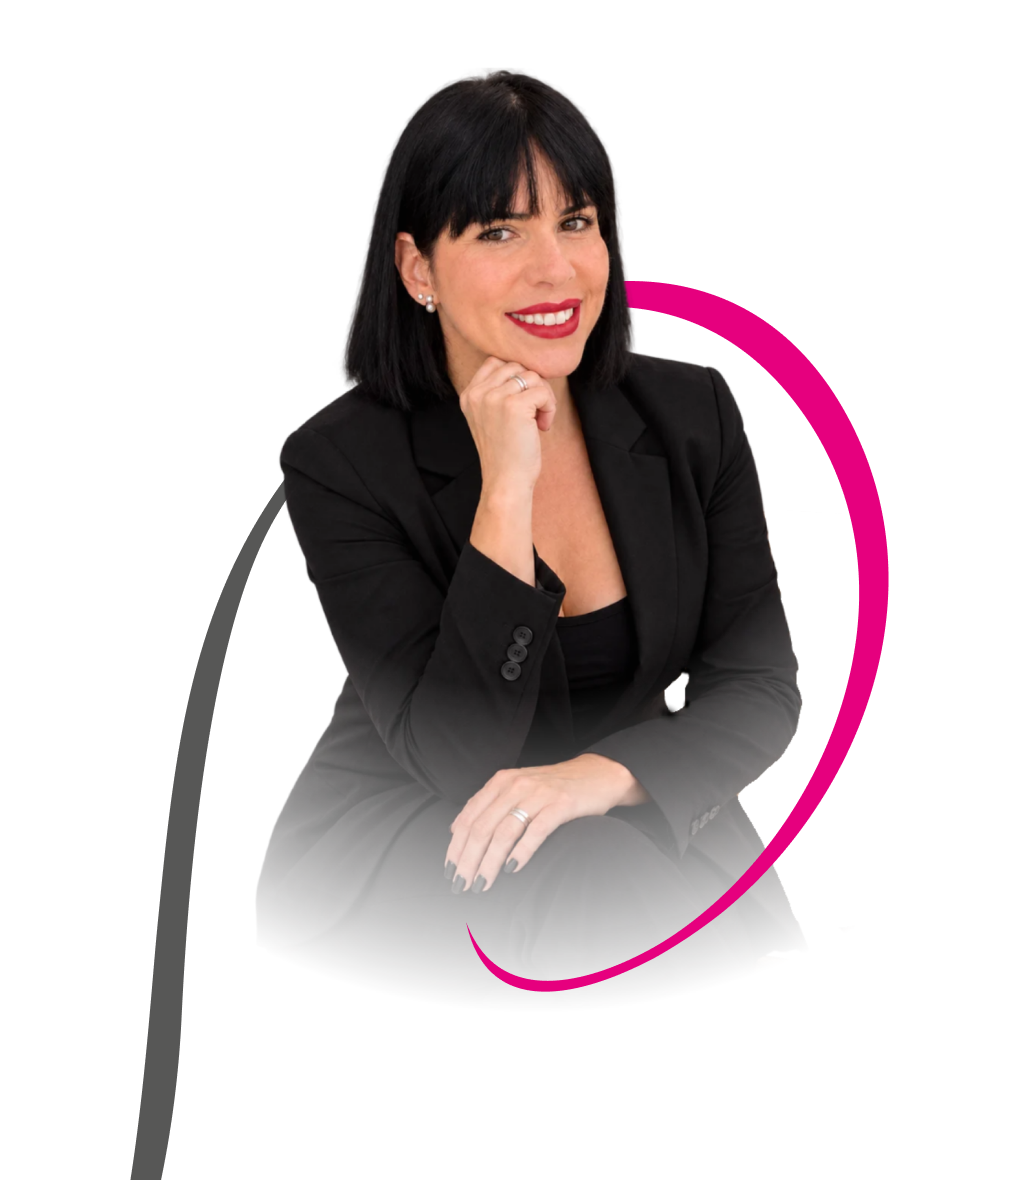
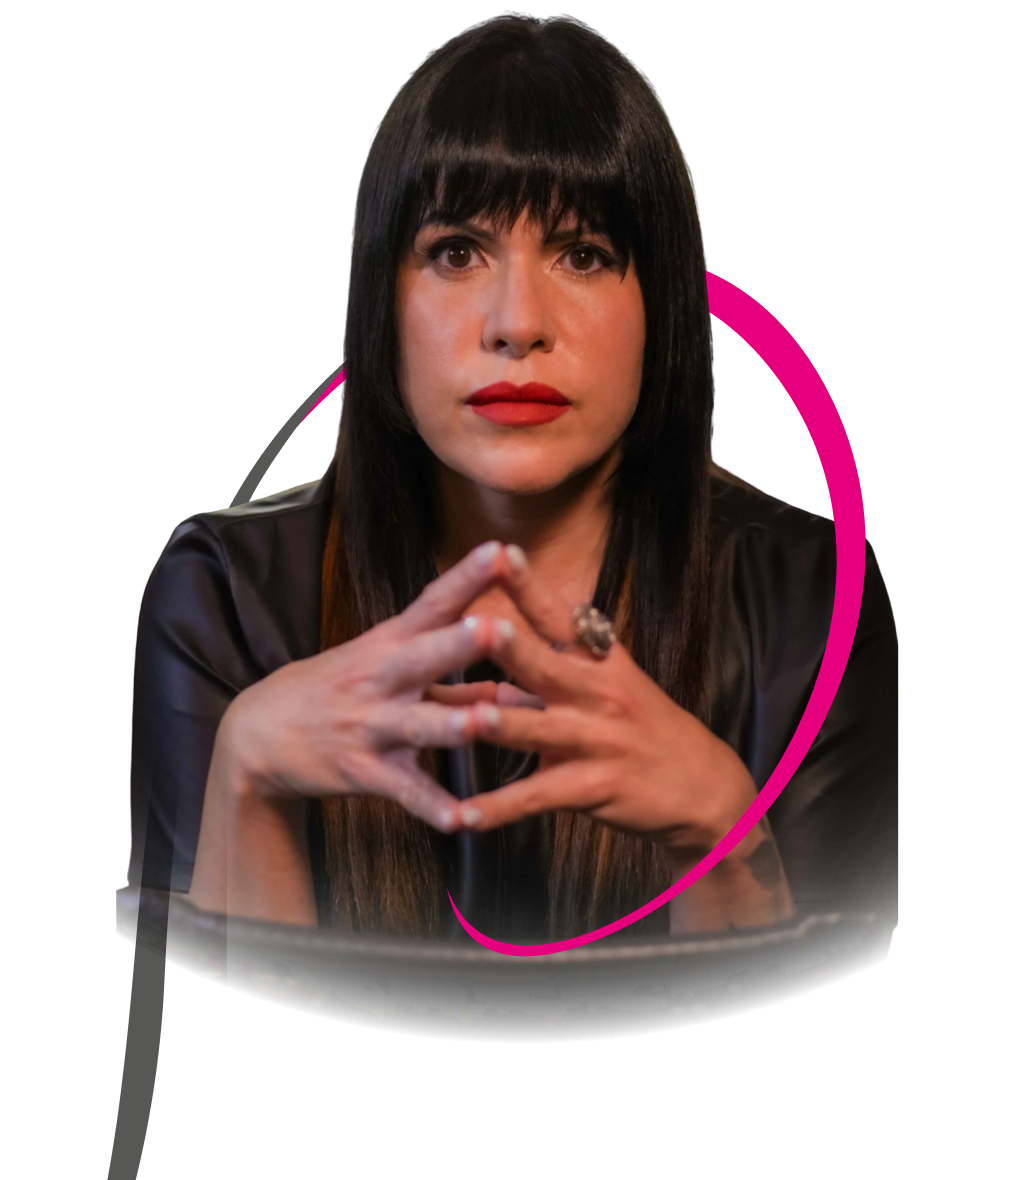
hero site

diff --git a/src/components/sections/Hero.tsx b/src/components/sections/Hero.tsx
@@ -3,6 +3,8 @@ import bgHero from '../../assets/images/bg-hero.png'
 import { whatsappHref } from '../../data/navigation'
 import { Button, Container, GlowText, OverlayBackground, RadialGlow } from '../ui'
 
+const heroBadges = ['Dieta feliz', 'Sem passar fome', 'Romanos 12:2']
+
 export function Hero() {
   return (
     <section id="inicio" className="relative isolate flex min-h-svh items-stretch overflow-hidden bg-black">
@@ -32,12 +34,26 @@ export function Hero() {
           </Button>
         </div>
 
-        <div className="flex justify-center self-end lg:justify-end">
+        <div className="relative flex justify-center self-end lg:justify-end">
           <img
             src={andreiaHero}
             alt="Andreia, nutricionista"
-            className="h-auto w-full lg:w-[104%] max-w-md lg:max-w-[720px] max-sm:w-[112%] max-sm:max-w-none"
+            className="h-auto w-full lg:w-[107%] max-w-md lg:max-w-[720px] max-sm:w-[112%] max-sm:max-w-none lg:translate-x-6"
           />
+          <ul className="absolute top-[44%] right-1 z-10 flex flex-col items-end gap-1.5 sm:gap-2.5 lg:top-[42%] lg:-right-4">
+            {heroBadges.map((badge, index) => (
+              <li
+                key={badge}
+                className="animate-badge-float motion-reduce:animate-none whitespace-nowrap rounded-full border border-[#7a7a7a] bg-[#575656] px-2.5 py-1 text-[9px] font-semibold tracking-[0.08em] text-white uppercase inset-shadow-[0_2px_8px_rgb(255_255_255/0.28)] shadow-[0_6px_16px_rgb(0_0_0/0.35)] sm:px-4 sm:py-1.5 sm:text-xs sm:tracking-[0.14em]"
+                style={{
+                  marginRight: index === 1 ? '0.55rem' : 0,
+                  animationDelay: `${index * 0.35}s`,
+                }}
+              >
+                {badge}
+              </li>
+            ))}
+          </ul>
         </div>
       </Container>
     </section>

diff --git a/src/index.css b/src/index.css
@@ -29,6 +29,7 @@
 
   --animate-shine: shine 2.4s ease-in-out infinite;
   --animate-marquee: marquee var(--marquee-duration, 45s) linear infinite;
+  --animate-badge-float: badge-float 2.8s ease-in-out infinite;
 
   @keyframes marquee {
     from {
@@ -36,6 +37,16 @@
     }
     to {
       transform: translateX(-50%);
+    }
+  }
+
+  @keyframes badge-float {
+    0%,
+    100% {
+      transform: translateY(0);
+    }
+    50% {
+      transform: translateY(-6px);
     }
   }
 
